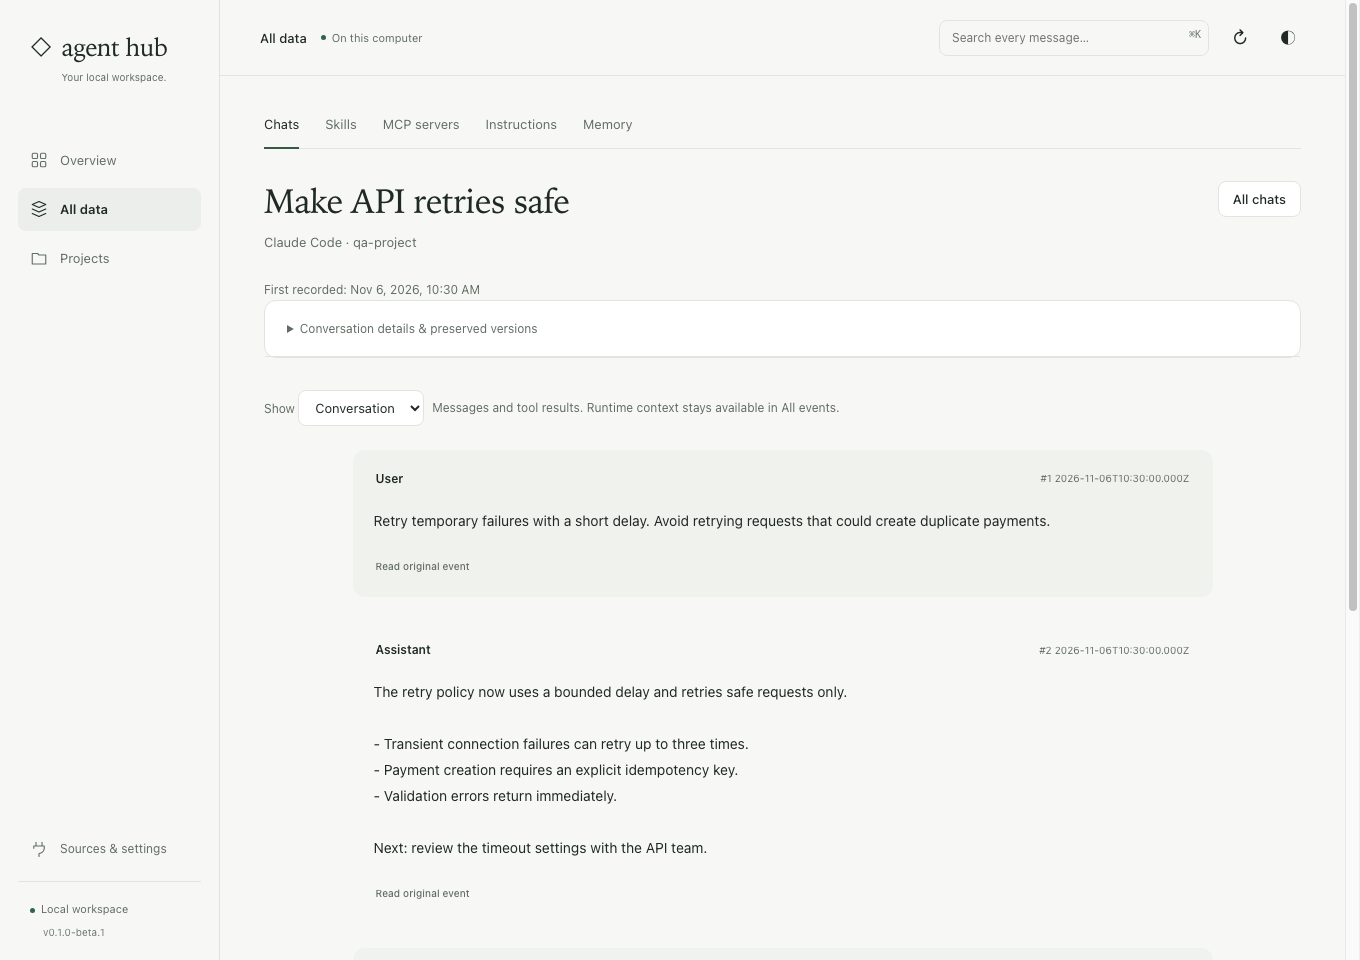
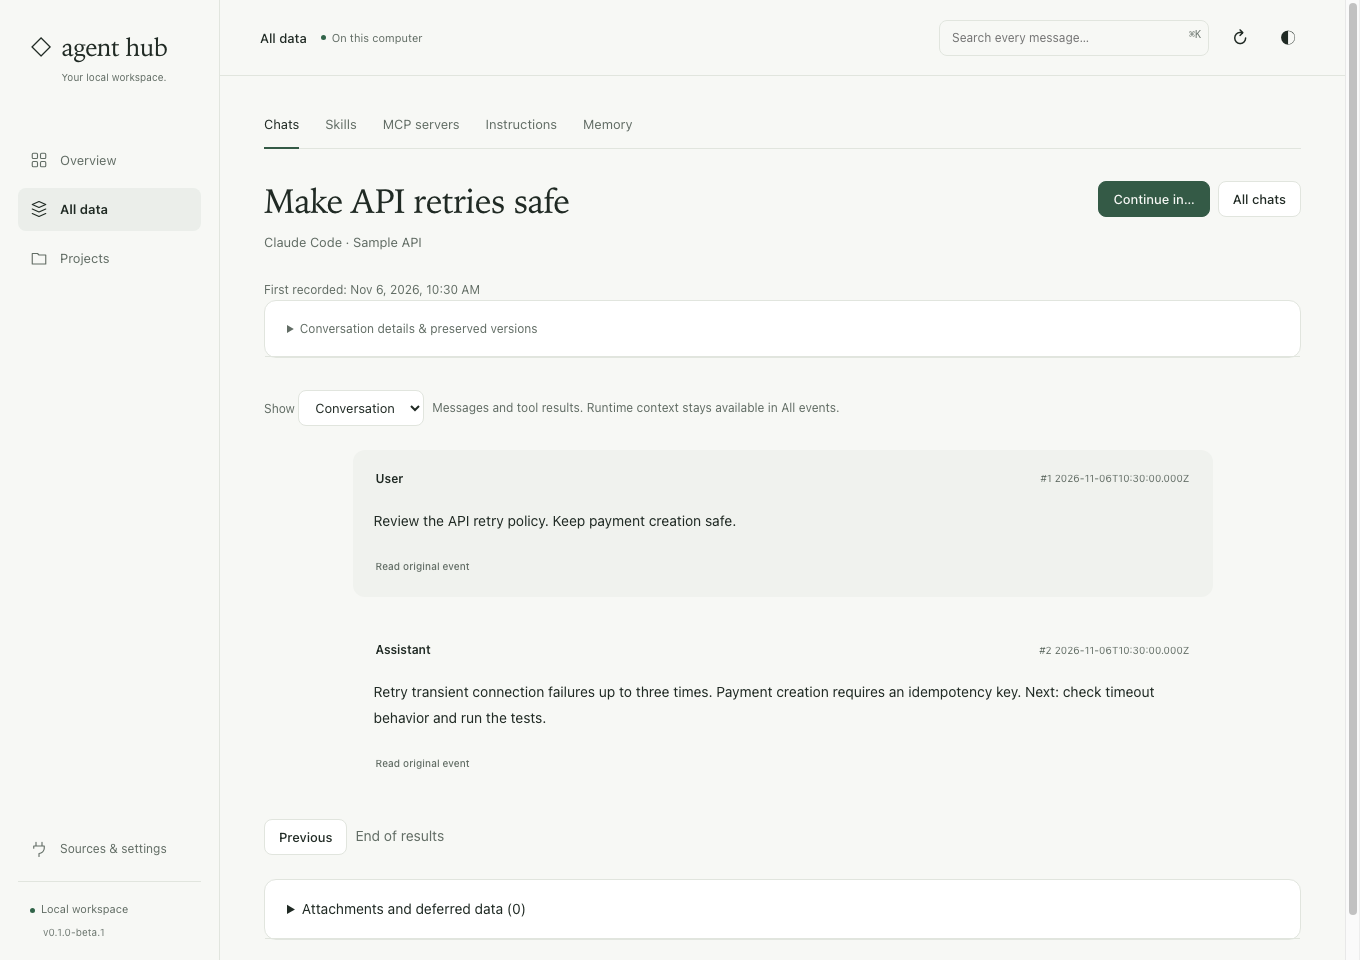
docs: show archive updates and cross-client context with screenshots

diff --git a/README.md b/README.md
@@ -9,16 +9,23 @@ One local hub for the chats, projects, MCP tools, skills and memory used by Clau
 - Collect existing MCP definitions and complete skill bundles into a shared Hub.
 - Deliver Hub settings to selected clients while preserving personal content.
 - Connect optional project memory, handoff notes and lifecycle checkpoints.
-- Preserve supported conversations locally, search messages and share scoped archive access.
+- Save conversations locally, search messages and keep selected sources updated in the background.
+- Prepare context from an archived chat for a new conversation in another client.
 - Review changes in the terminal or local UI, with conflict guards and recovery.
 
 ![Agent Hub overview with saved conversations, shared resources and detected clients](https://raw.githubusercontent.com/get-agent-hub/agent-hub/master/docs/images/hub-overview.png)
 
 Real interface with fictional sample data. [See a saved conversation](docs/images/hub-chat.png).
 
+| Keep your archive current                                                                                                                               | Continue in another client                                                                                                                                                     |
+| ------------------------------------------------------------------------------------------------------------------------------------------------------- | ------------------------------------------------------------------------------------------------------------------------------------------------------------------------------ |
+| ![Archive status, selected sources and automatic updates](https://raw.githubusercontent.com/get-agent-hub/agent-hub/master/docs/images/hub-archive.png) | ![Review original message excerpts before copying context to a new conversation](https://raw.githubusercontent.com/get-agent-hub/agent-hub/master/docs/images/hub-handoff.png) |
+
+Background updates continue after you close the interface. Optional login startup resumes them after sign-in. **Continue in…** prepares original excerpts and source references to paste into a new chat; active sessions stay in their clients. [How it works](docs/HISTORY.md).
+
 ## Get started
 
-Requires **Node.js 22.13+** and npm. macOS and Linux are supported; Windows is experimental. This is **0.1.0-beta.1**; public npm registry installation is not available yet.
+Requires **Node.js 22.13+** and npm. macOS and Linux are supported; Windows is experimental. The package version is **0.1.0-beta.1**; the source and screenshots include later improvements that are not in the older beta release archive. Public npm registry installation is not available yet.
 
 Clone the source and install a standalone global CLI:
 
